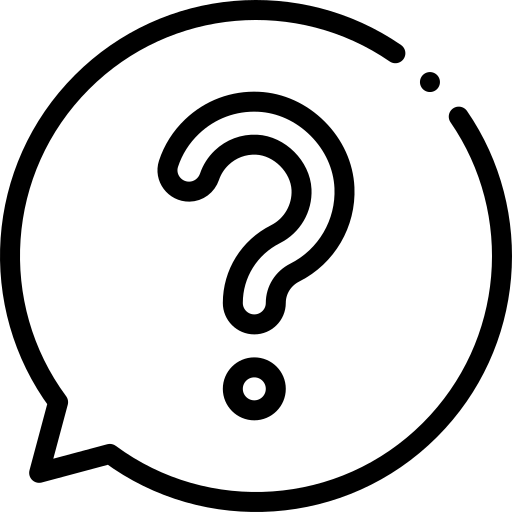
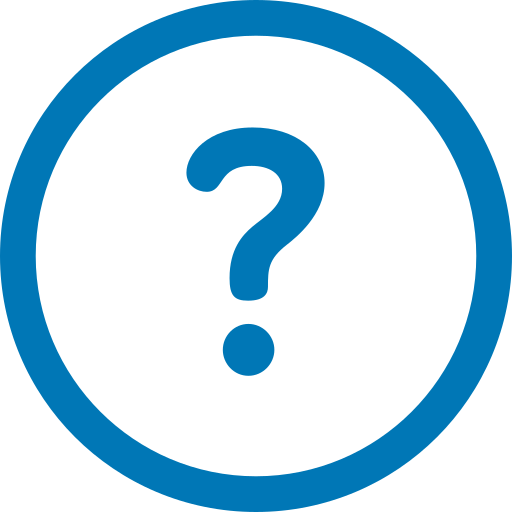
tambahan styling dan comment javascript
- ganti bahasa jadi full indo
- ganti tooltip dari tanda tanya doang menjadi "apa itu bmi?"
- tambah penjelasan tentang apa itu bmi
- beberapa perubahan styling supaya rapih

diff --git a/index.html b/index.html
@@ -39,9 +39,13 @@
         <section id="form-kalkulator-bmi">
         <form id="form-bmi">
 
-            <img id="hint-mark" src="icon/ask.png" alt="hint">
+            <h1 id="title-form">Kalkulator</h1>
+
+            <a id="hint-mark">Apa itu BMI <img src="icon/ask.png" alt="ask"></a>
             <div id="form-explanation">
-                <p>Keunggulan Fitur:</p>
+
+                <p>BMI adalah indikator pengukuran yang digunakan untuk menentukan kategori berat badan ideal atau tidak. BMI dikembangkan oleh Adolphe Quetelet selama abad ke-19. Melalui hasil perhitungan BMI, Anda akan mengetahui kategori berat badan, yaitu kurus, ideal, berlebihan, atau bahkan obesitas.</p>
+                <p>Keunggulan Fitur :</p>
                 <ul>
                     <li>Menghitung berat badan</li>
                     <li>Menentukan kategori berat badan ideal atau tidak</li>
@@ -51,21 +55,22 @@
             </div>
 
             <!-- CONTAINER GENDER INPUT -->
+            <label id="choose-gender" for="">pilih jenis kelamin:</label>
             <div class="form-container" id="gender-input">
 
-                <label for="">choose your gender:</label>
+                
                 <div class="gender-input" id="male-radio">
                     <input class="gender-radio" type="radio" name="gender" id="male" value="male" checked required>
                     <img id="colored-male" class="colored-gender" src="icon/male.png" alt="male-icon">
                     <img class="gray-gender" src="icon/gray-male.png" alt="gray-male-icon">
-                    <label for="male" id="male-radio-label">Male</label>
+                    <label for="male" id="male-radio-label">laki-laki</label>
                 </div>
 
                 <div class="gender-input" id="female-radio">
                     <input class="gender-radio" type="radio" name="gender" id="female" value="female" required>
                     <img id="colored-female" class="colored-gender" src="icon/female.png" alt="female-icon">
                     <img class="gray-gender" src="icon/gray-female.png" alt="gray-female-icon">
-                    <label for="female" id="female-radio-label">Female</label>
+                    <label for="female" id="female-radio-label">perempuan</label>
                 </div>
 
             </div>
@@ -73,7 +78,7 @@
             <!-- CONTAINER AGE INPUT -->
             <div class="form-container" id="age">
 
-                <label for="age-input">Input your age (tahun) : </label>
+                <label for="age-input">masukan umur (tahun) : </label>
                 <input id="age-input" class="text-input" type="number" name="age" min="1" max="100" required>
                 
             </div>
@@ -81,7 +86,7 @@
             <!-- CONTAINER HEIGHT INPUT -->
             <div class="form-container" id="height">
 
-                <label for="height-input">Input your height (cm): </label>
+                <label for="height-input">masukan tinggi badan (cm): </label>
                 <input id="height-input" class="text-input" type="number" name="height" required>
                 
             </div>
@@ -89,7 +94,7 @@
             <!-- CONTAINER WEIGHT INPUT -->
             <div class="form-container" id="weight">
 
-                <label for="height-input">Input your weight (kg): </label>
+                <label for="height-input">masukan berat badan (kg): </label>
                 <input id="weight-input" class="text-input" type="number" name="weight" required>
                 
             </div>
@@ -101,7 +106,7 @@
 
         <section id="result">
 
-            <h2>Your result is : </h1>
+            <h2 class="result-h2">Hasil mu .. </h2>
 
             <div id="container-indicator-img">
                 <img id="indicator" src="" alt="indicator">

diff --git a/js/main.js b/js/main.js
@@ -37,7 +37,7 @@ event.preventDefault();
 
     document.querySelector('#indicator').style.display = "block";
     document.querySelector('#container-penjelasan').style.display = "block";
-    // di atas untuk mengubah style indikator gambar dari display: none; ke display: block;
+    // di atas untuk mengubah style indikator gambar dan penjelasan hasil dari display: none; ke display: block;
 
     // dibawah adalah formula untuk menunjukkan indikator tergantung dari hasil BMI
     if (BMI <= 18.5){
@@ -47,13 +47,16 @@ event.preventDefault();
 
         document.querySelector('#bmi-result').style.color = "#ff6700";
         document.querySelector('#penjelasan-hasil').style.color = "#ff6700";
+        // kode di atas untuk mengubah warna indikasi hasil BMI menjadi sesuai dengan hasil jika berat badan ideal atau tidak
 
-        // dibawah untuk menunjukkan gambar indikasi berat badan
+        // dibawah untuk menunjukkan gambar indikasi berat badan jika radio button male yang dipilih maka akan menunjukkan gambar laki-laki, dan jika radio female akan menunjukkan gambar perempuan
         if (maleRadio.checked){
             document.querySelector('#indicator').src = 'icon/underweight man.png';
         }else if (femaleRadio.checked){
             document.querySelector('#indicator').src = 'icon/underweight woman.png';
         }
+
+        // setelah itu dibawah hanya di ulang jika jarak BMI dari angka tertentu sampai angka tertentu dan akan mengeluarkan hasil yang berbeda
     }else if(BMI > 18.5 && BMI <= 24.9){
         document.querySelector('#penjelasan-hasil').innerHTML = `Berat badan yang ideal`;
         document.querySelector('#penjelasan-hasil-2').innerHTML = `Kami rekomendasikan untuk menetapkan pola makan yang sehat dan olah raga yang cukup`

diff --git a/css/styles.css b/css/styles.css
@@ -66,7 +66,7 @@ header h1{
     font-size: 3rem;
 }
 
-a{
+#link-to-form{
     text-decoration: none;
     color: white;
 }
@@ -102,7 +102,7 @@ a{
 
 #container-calc-result{
     display: flex;
-    margin: 15rem 0;
+    margin: 8rem 0;
 }
 
 #form-kalkulator-bmi{
@@ -116,6 +116,10 @@ a{
     align-items: center;
     gap: 3rem;
     position: relative;
+}
+
+#title-form{
+    font-size: 3rem;
 }
 
 .form-container{
@@ -155,6 +159,12 @@ a{
     cursor: pointer;
     z-index: 2;
     opacity: 0;
+}
+
+#choose-gender{
+    font-size: 2rem;
+    text-transform: uppercase;
+    letter-spacing: 1px;
 }
 
 .form-container label{
@@ -235,6 +245,10 @@ input[type="number"]::-webkit-inner-spin-button{
     align-items: center;
 }
 
+.result-h2{
+    margin-bottom: 2rem;
+}
+
 #result h1{
     font-size: 5rem;
 }
@@ -245,9 +259,18 @@ input[type="number"]::-webkit-inner-spin-button{
 
 #hint-mark{
     position: absolute;
-    width: 3rem;
     right: 10rem;
     top: 1px;
+    font-size: 1.5rem;
+    text-decoration: underline;
+    color: var(--blue3);
+    cursor: default;
+}
+
+#hint-mark img{
+    width: 1.4rem;
+    position: relative;
+    top: 1.4px;
 }
 
 #hint-mark:hover + #form-explanation{
